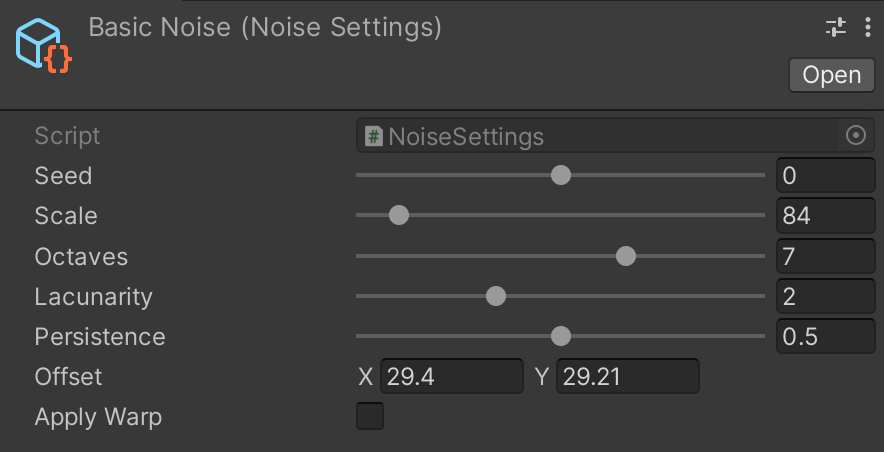
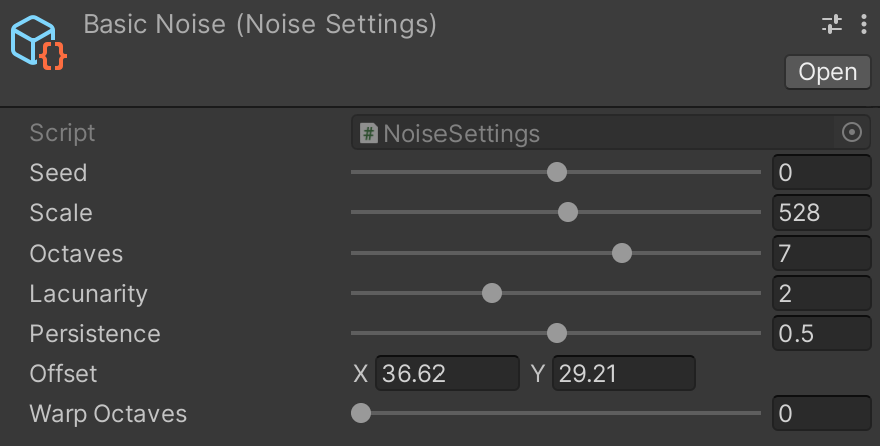
noise warp changes
changed from toggle to range for demo purposes

diff --git a/Assets/Scripts/Noise/Noise.cs b/Assets/Scripts/Noise/Noise.cs
@@ -84,18 +84,21 @@ public static class Noise
     )
     {
 
-        float noiseHeight;
+        float noiseHeight = 0;
+        Vector2 warpCoords = new Vector2(0f, 0f);
 
-        if (noiseSettings.applyWarp) {
-            
-            // generate new vector2 coordinates using offset noise
-            Vector2 warpCoords = new Vector2(
-                fbm (coords, noiseSettings.octaves, noiseSettings.lacunarity, noiseSettings.persistence, offsets),
-                fbm (coords + new Vector2 (5.2f, 1.3f), noiseSettings.octaves, noiseSettings.lacunarity, noiseSettings.persistence, offsets)
+        if (noiseSettings.warpOctaves > 0) {
+
+            for (int i = 0; i < noiseSettings.warpOctaves; i++) {
+                // generate new vector2 coordinates using offset noise
+            warpCoords = new Vector2(
+                fbm (coords + 4f * warpCoords + new Vector2 (4f, 2f), noiseSettings.octaves, noiseSettings.lacunarity, noiseSettings.persistence, offsets),
+                fbm (coords + 4f * warpCoords + new Vector2 (3f, 5f), noiseSettings.octaves, noiseSettings.lacunarity, noiseSettings.persistence, offsets)
             );
 
             // generate new noiseheight value with offset noise
-            noiseHeight = fbm (warpCoords, noiseSettings.octaves, noiseSettings.lacunarity, noiseSettings.persistence, offsets);
+            noiseHeight = fbm (coords + 4f * warpCoords, noiseSettings.octaves, noiseSettings.lacunarity, noiseSettings.persistence, offsets);
+            }
         }
         else
         {

diff --git a/Assets/Scripts/Noise/NoiseSettings.cs b/Assets/Scripts/Noise/NoiseSettings.cs
@@ -5,16 +5,17 @@ using UnityEngine;
 [CreateAssetMenu()]
 public class NoiseSettings : ScriptableObject
 {
-    [Range(-1000, 1000)]
+    [Range (-1000, 1000)]
     public int seed;
-    [Range(1, 1000)]
+    [Range (1, 1000)]
     public float scale = 10;
-    [Range(1, 10)]
+    [Range (1, 10)]
     public int octaves = 1;
-    [Range(1, 4)]
+    [Range (1, 4)]
     public float lacunarity = 2f;
-    [Range(0, 1)]
+    [Range (0, 1)]
     public float persistence = 0.5f;
     public Vector2 offset;
-    public bool applyWarp;
+    [Range (0, 1)]
+    public int warpOctaves;
 }

diff --git a/README.md b/README.md
@@ -5,41 +5,60 @@ Using 2d noise samples to create interesting patterns, heightmaps, and landmasse
 
 ## Generating Noise
 
-[Perlin Noise](https://en.wikipedia.org/wiki/Perlin_noise) is a form of coherent noise, meaning instead if purely random values, it generates values between 0 and 1 that flow in a smooth appearance, see below.
+The term **noise** simply means generating a random value *between 0 and 1* for a given point on a *2D-plane*.
+
+---
+
+### Perlin Noise
+
+[Perlin Noise](https://en.wikipedia.org/wiki/Perlin_noise) is a form of coherent noise, meaning instead if purely random values, it generates values that flow in a smooth appearance, see below.
 
 ![basic-perlin-noise](https://user-images.githubusercontent.com/97237166/151536648-66071baf-c911-4577-b979-6e45e778c885.png)
 
+>*Perlin noise was chosen simply because it is included as a standard Unity library*
+
+&nbsp;
+
+### Fractional Brownian Motion
+
 This lends itself to the generation of a basic form of [Fractional Brownian Motion](https://en.wikipedia.org/wiki/Fractional_Brownian_motion).  
-This is generated using the following code snippet:
+The code for which seen below:
 
 ```c#
-float noiseHeight = 0;
-float frequency = 1;
-float amplitude = 1;
+float fbm ()
+{
+    float noiseHeight = 0;
+    float frequency = 1;
+    float amplitude = 1;
 
-// apply noise once per octave
-for (int i = 0; i < octaves; i++) {
+    // apply noise once per octave
+    for (int i = 0; i < octaves; i++) {
 
-    float perlinValue = Mathf.PerlinNoise (
-        coords.x * frequency,
-        coords.y * frequency
-    );
+        float perlinValue = Mathf.PerlinNoise (
+            coords.x * frequency,
+            coords.y * frequency
+        );
 
-    noiseHeight += perlinValue * amplitude;
-    frequency *= lacunarity; // (1+) frequency is increased (more detail)
-    amplitude *= persistence; // (0-1) amplitude is reduced (less effect)
+        noiseHeight += perlinValue * amplitude;
+        frequency *= lacunarity; // (1+) frequency is increased (more detail)
+        amplitude *= persistence; // (0-1) amplitude is reduced (less effect)
+    }
+
+    return noiseHeight;
 }
-
-return noiseHeight;
 ```
 
-An excellent tutorial for this effect can be found [here](https://www.iquilezles.org/www/articles/fbm/fbm.htm) - credit to [Inigo Quilez](https://www.iquilezles.org/)
+>An excellent tutorial for this effect can be found [here](https://www.iquilezles.org/www/articles/fbm/fbm.htm) - credit to [Inigo Quilez](https://www.iquilezles.org/)
+
+---
 
 A basic explanation is as follows:
 
 - the **octaves** variable indicates how many layers of noise are used
 - the **lacunarity** variable indicates by how much the frequency is *increased* each octave (*although technically if this is any value other than 2, the term octaves is no longer accurate*)
 - the **persistence** variable indicates by how much the amplitude is *decreased* each octave (*measured multiplicitavely from 0 - 1*)
+
+---
 
 This describes the simple process of combining several layers of noise, each with differing levels of detail and effect.  
 ![image](https://user-images.githubusercontent.com/97237166/151534717-c41cc137-25b5-4e3f-809f-e87a57354128.png)
@@ -48,3 +67,80 @@ This describes the simple process of combining several layers of noise, each wit
 
 The result of this work gives us this noise-map, which we will use for almost everything going forward.  
 ![fractal-brownian-motion](https://user-images.githubusercontent.com/97237166/151536714-e6871769-492f-40fd-9d33-f29d3f8b894c.png)
+
+### Additional Noise Features
+
+See below the noise settings used, and a brief description of each.
+
+| Setting | Description |
+| ------- | ----------- |
+| Seed | a random offset for noise generation
+| Scale | dividing the x and y location of noise data to increase the size of the noise
+| Octaves | number of noise layers*
+| Lacunarity | scaling factor for increasing frequency of the noise per octave*
+| Persistence | scaling factor for decreasing amplitude of the noise per octave*
+| Offset | Vector2 for changing the x and y coordinates used when sampling the noise-map
+| Warp Octaves | special feature, see below for further details
+
+>\* see *fractional brownian motion* for more details
+
+### Noise Warping
+
+**FBM** or Fractional Brownian Motion can be used to offset itself. This is the building block of noise warp.
+
+Take the FBM function we built above, when we call it once, we can generate a simple noise pattern:
+
+```c#
+float WarpPattern (Vector2 coordinates)
+{
+    return fbm (coordinates);
+}
+```
+
+> f(p) = fbm (p);
+
+However, when we add domain warping, by applying an offset to the fbm call equal to a different fbm call for each direction (x, y), something interesting occurs.
+
+```c#
+float WarpPattern (Vector2 coordinates)
+{
+    Vector2 warpedCoordinates = Vector2 (
+        fbm (coordinates + offset1),
+        fbm (coordinates + offset2)
+    ); // where offset1 and offset2 are small but arbitrary Vector2 offsets (maybe around 0 - 10)
+
+    return fbm (coordinates + scale * warpedCoordinates);
+    // where scale is a small but arbitrary scaling factor (maybe around 3 - 4)
+}
+```
+
+> f(p) = fbm (p + fbm (p));
+
+This can create some beautiful fractal style patterns.  
+
+But it can be taken further.
+
+```c#
+float WarpPattern (Vector2 coordinates)
+{
+
+    // offsets are small but arbitrary Vector2 increases (0 - 10 for x and y)
+    // scale is small but arbitrary scaling factor (3 - 4)
+
+    Vector2 warpedCoordinates = Vector2 (
+        fbm( coordinates + offset1 ),
+        fbm( coordinates + offset2 ) );
+
+    Vector2 warpedCoordinates = Vector2 (
+        fbm (coordinates + scale * warpedCoordinates + offset3),
+        fbm (coordinates + scale * warpedCoordinates + offset4)
+    );
+
+    return fbm (coordinates + scale * warpedCoordinates);
+}
+```
+
+> f(p) = fbm (p + fbm (p + fbm (p)));
+
+This can generate some very interesting landmasses, which we can be seen further down.  
+*Although they are limited to one level of warp, as it has diminishing returns for landmasses*
